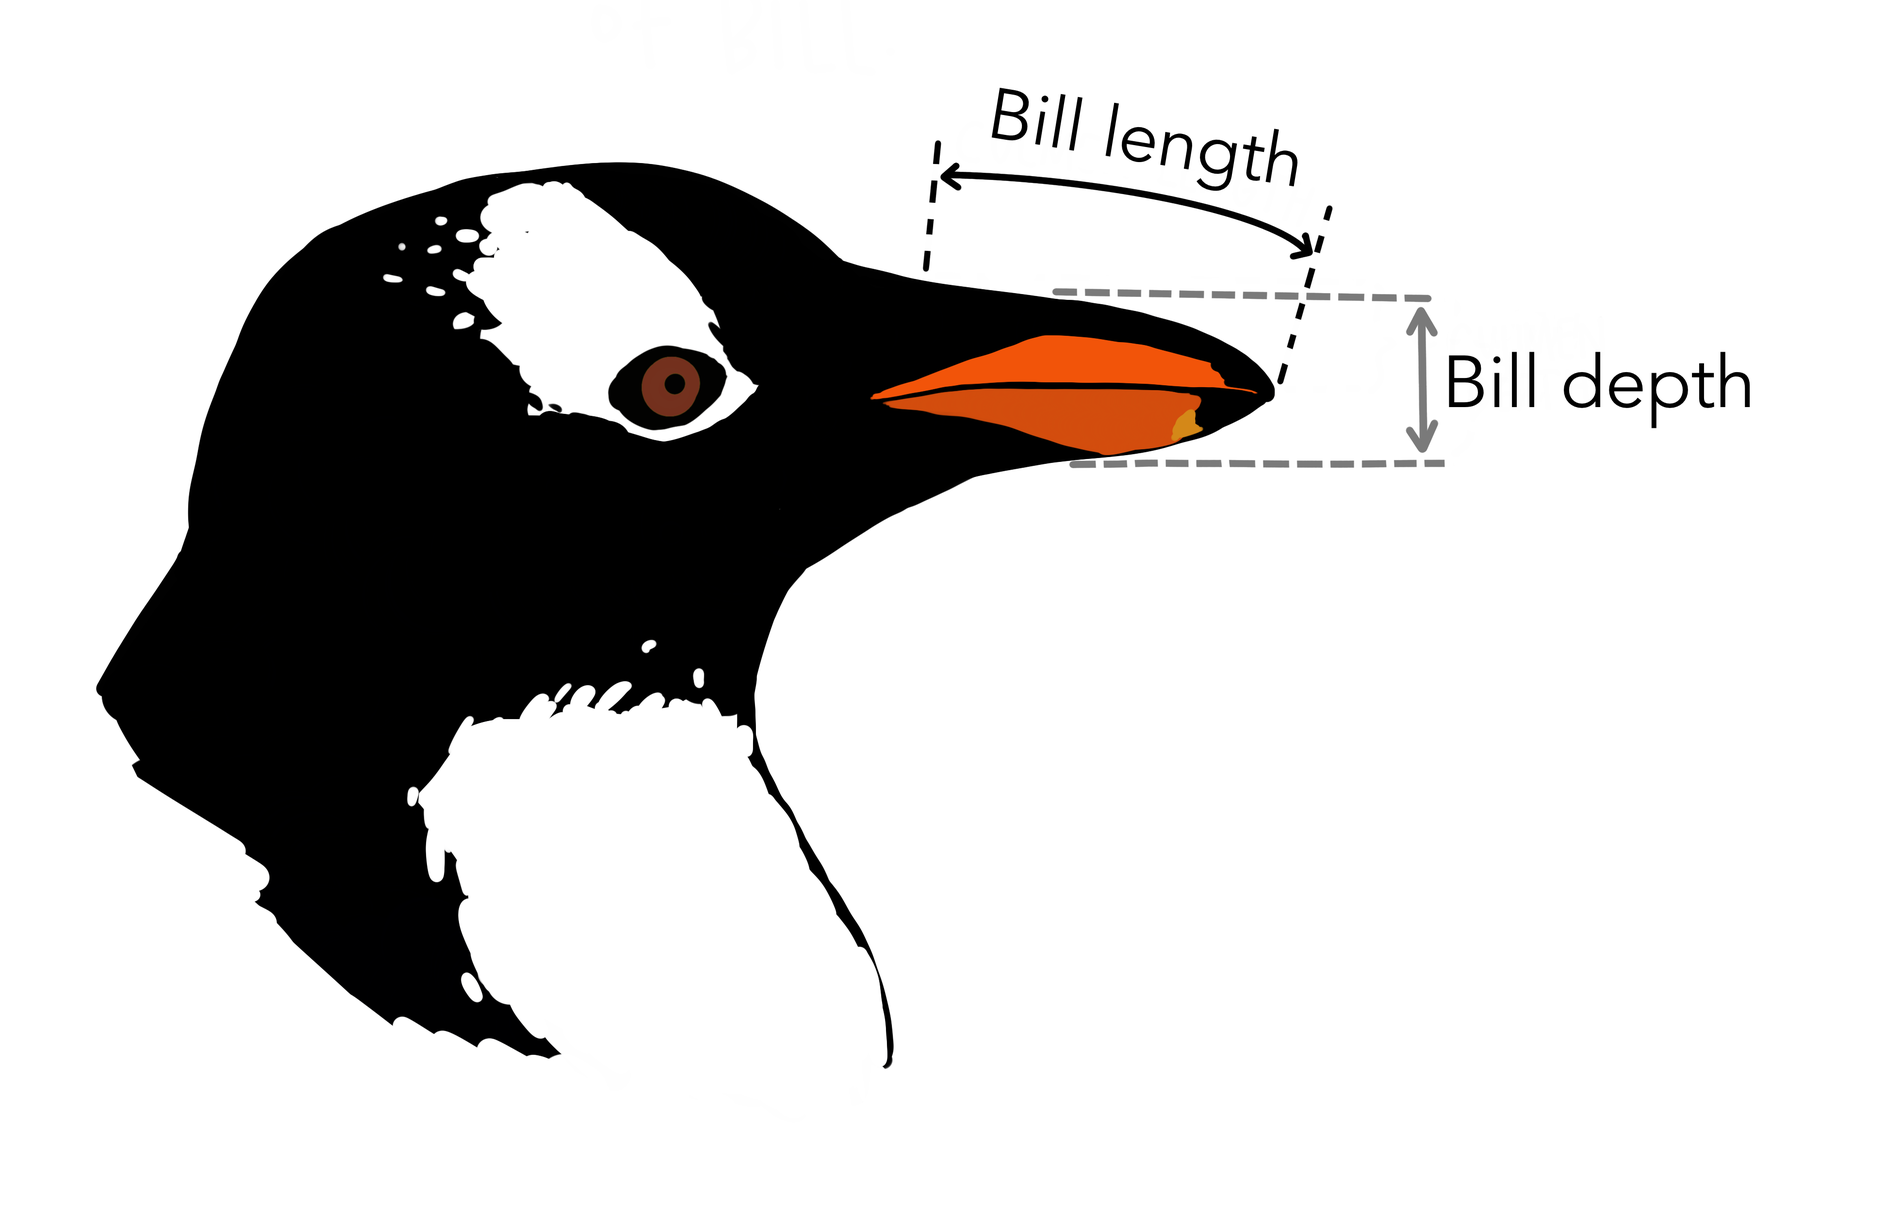
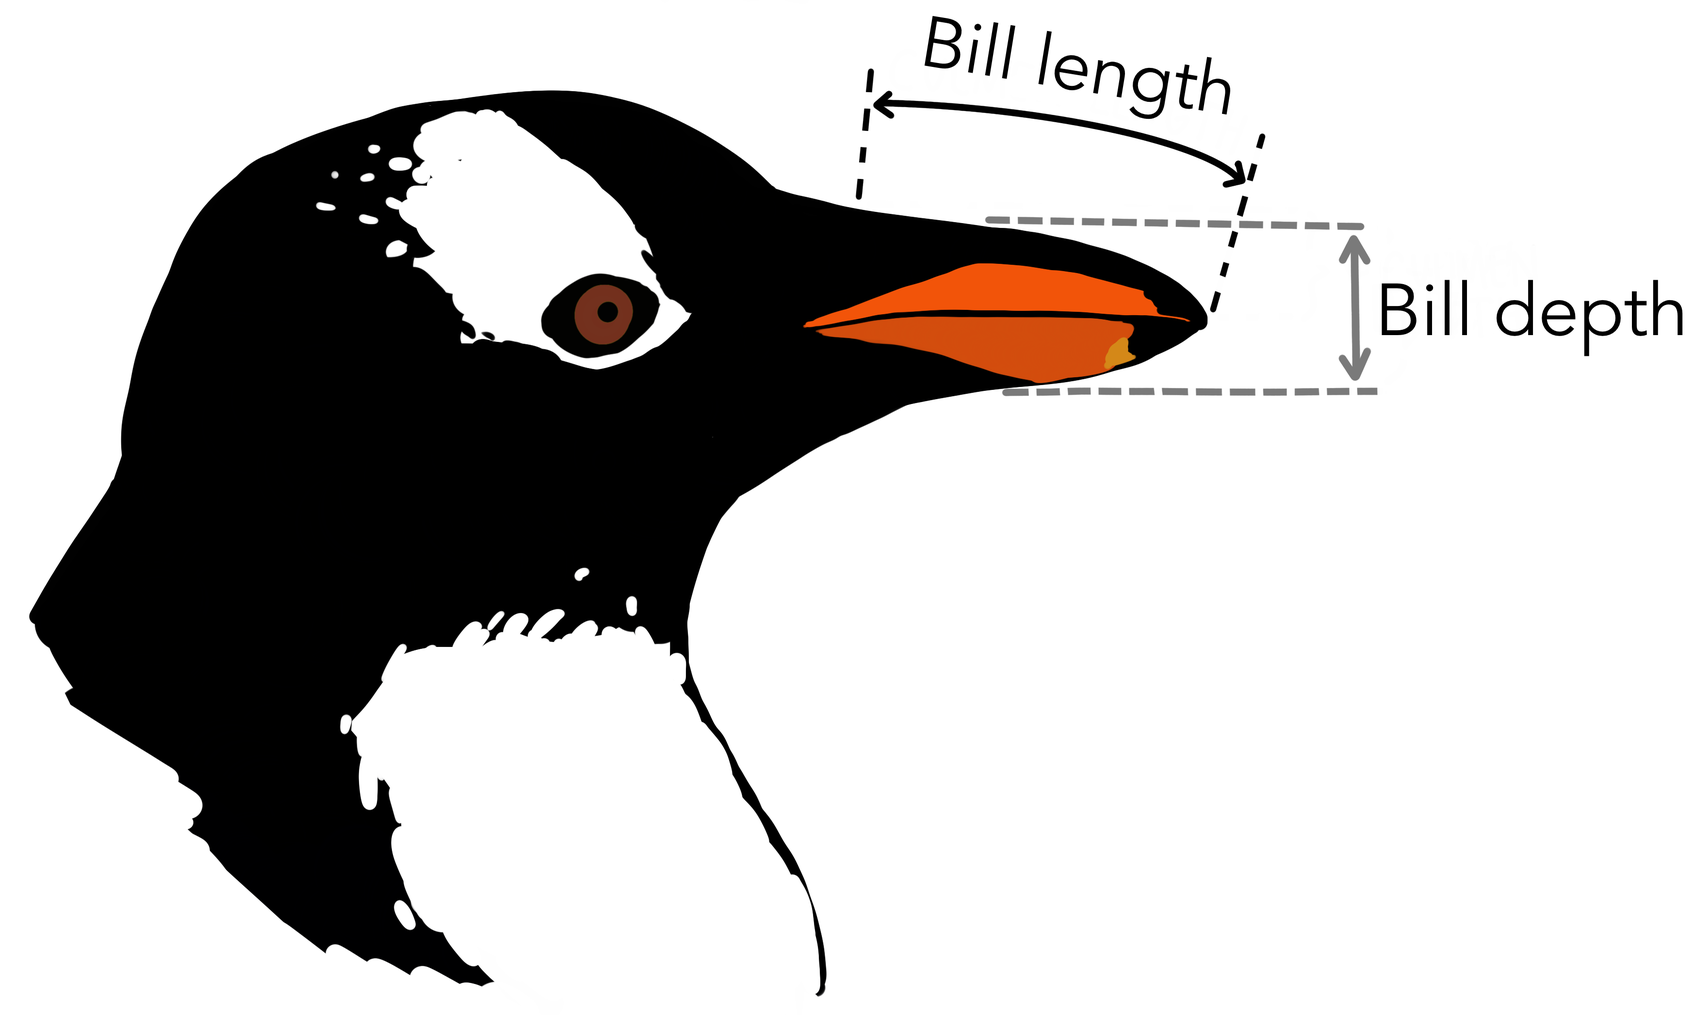
Поправил пенгвина

diff --git a/docs/404.html b/docs/404.html
@@ -1,34 +1,57 @@
-<!DOCTYPE html>
+<!doctype html>
 <html lang="en">
 <head>
-<meta http-equiv="Content-Type" content="text/html; charset=UTF-8">
-<meta charset="utf-8">
-<meta name="viewport" content="width=device-width, initial-scale=1, shrink-to-fit=no">
-<title>Page not found | Введение в Git</title>
-<meta name="author" content="Kirill Voronin">
-<meta name="description" content="The page you requested cannot be found (perhaps it was moved or renamed). You may want to try searching to find the page's new location, or use the table of contents to find the page you are...">
-<meta name="generator" content="bookdown 0.43 with bs4_book()">
-<meta property="og:title" content="Page not found | Введение в Git">
-<meta property="og:type" content="book">
-<meta property="og:url" content="https://yoursdearboy.github.io/git-101/404.html">
-<meta property="og:description" content="The page you requested cannot be found (perhaps it was moved or renamed). You may want to try searching to find the page's new location, or use the table of contents to find the page you are...">
-<meta name="twitter:card" content="summary">
-<meta name="twitter:title" content="Page not found | Введение в Git">
-<meta name="twitter:description" content="The page you requested cannot be found (perhaps it was moved or renamed). You may want to try searching to find the page's new location, or use the table of contents to find the page you are...">
-<!-- JS --><script src="https://cdnjs.cloudflare.com/ajax/libs/clipboard.js/2.0.6/clipboard.min.js" integrity="sha256-inc5kl9MA1hkeYUt+EC3BhlIgyp/2jDIyBLS6k3UxPI=" crossorigin="anonymous"></script><script src="https://cdnjs.cloudflare.com/ajax/libs/fuse.js/6.4.6/fuse.js" integrity="sha512-zv6Ywkjyktsohkbp9bb45V6tEMoWhzFzXis+LrMehmJZZSys19Yxf1dopHx7WzIKxr5tK2dVcYmaCk2uqdjF4A==" crossorigin="anonymous"></script><script src="https://kit.fontawesome.com/6ecbd6c532.js" crossorigin="anonymous"></script><script src="libs/jquery-3.6.0/jquery-3.6.0.min.js"></script><meta name="viewport" content="width=device-width, initial-scale=1, shrink-to-fit=no">
-<link href="libs/bootstrap-4.6.0/bootstrap.min.css" rel="stylesheet">
-<script src="libs/bootstrap-4.6.0/bootstrap.bundle.min.js"></script><script src="libs/bs3compat-0.9.0/transition.js"></script><script src="libs/bs3compat-0.9.0/tabs.js"></script><script src="libs/bs3compat-0.9.0/bs3compat.js"></script><link href="libs/bs4_book-1.0.0/bs4_book.css" rel="stylesheet">
-<script src="libs/bs4_book-1.0.0/bs4_book.js"></script><script src="https://cdnjs.cloudflare.com/ajax/libs/autocomplete.js/0.38.0/autocomplete.jquery.min.js" integrity="sha512-GU9ayf+66Xx2TmpxqJpliWbT5PiGYxpaG8rfnBEk1LL8l1KGkRShhngwdXK1UgqhAzWpZHSiYPc09/NwDQIGyg==" crossorigin="anonymous"></script><script src="https://cdnjs.cloudflare.com/ajax/libs/mark.js/8.11.1/mark.min.js" integrity="sha512-5CYOlHXGh6QpOFA/TeTylKLWfB3ftPsde7AnmhuitiTX4K5SqCLBeKro6sPS8ilsz1Q4NRx3v8Ko2IBiszzdww==" crossorigin="anonymous"></script><!-- CSS --><style type="text/css">
+  <meta charset="utf-8" />
+  <meta name="viewport" content="width=device-width, initial-scale=1, shrink-to-fit=no">
+
+  <title>Page not found | Введение в Git</title>
+
+    <meta name="author" content="Kirill Voronin" />
+  
+   <meta name="description" content="Руководство по Git для Института Биоинформатики." />
+   <meta name="generator" content="placeholder" />
+  <meta property="og:title" content="Page not found | Введение в Git" />
+  <meta property="og:type" content="book" />
+  <meta property="og:url" content="https://yoursdearboy.github.io/git-101" />
+  
+  <meta property="og:description" content="Руководство по Git для Института Биоинформатики." />
+
+  <meta name="twitter:card" content="summary" />
+  <meta name="twitter:title" content="Page not found | Введение в Git" />
+  
+  <meta name="twitter:description" content="Руководство по Git для Института Биоинформатики." />
+  
+  <!-- JS -->
+  <script src="https://cdnjs.cloudflare.com/ajax/libs/clipboard.js/2.0.6/clipboard.min.js" integrity="sha256-inc5kl9MA1hkeYUt+EC3BhlIgyp/2jDIyBLS6k3UxPI=" crossorigin="anonymous"></script>
+  <script src="https://cdnjs.cloudflare.com/ajax/libs/fuse.js/6.4.6/fuse.js" integrity="sha512-zv6Ywkjyktsohkbp9bb45V6tEMoWhzFzXis+LrMehmJZZSys19Yxf1dopHx7WzIKxr5tK2dVcYmaCk2uqdjF4A==" crossorigin="anonymous"></script>
+  <script src="https://kit.fontawesome.com/6ecbd6c532.js" crossorigin="anonymous"></script>
+    <script src="libs/jquery-3.6.0/jquery-3.6.0.min.js"></script>
+    <meta name="viewport" content="width=device-width, initial-scale=1, shrink-to-fit=no" />
+    <link href="libs/bootstrap-4.6.0/bootstrap.min.css" rel="stylesheet" />
+    <script src="libs/bootstrap-4.6.0/bootstrap.bundle.min.js"></script>
+    <script src="libs/bs3compat-0.9.0/transition.js"></script>
+    <script src="libs/bs3compat-0.9.0/tabs.js"></script>
+    <script src="libs/bs3compat-0.9.0/bs3compat.js"></script>
+    <link href="libs/bs4_book-1.0.0/bs4_book.css" rel="stylesheet" />
+    <script src="libs/bs4_book-1.0.0/bs4_book.js"></script>
+    <script src="https://cdnjs.cloudflare.com/ajax/libs/autocomplete.js/0.38.0/autocomplete.jquery.min.js" integrity="sha512-GU9ayf+66Xx2TmpxqJpliWbT5PiGYxpaG8rfnBEk1LL8l1KGkRShhngwdXK1UgqhAzWpZHSiYPc09/NwDQIGyg==" crossorigin="anonymous"></script>
+  <script src="https://cdnjs.cloudflare.com/ajax/libs/mark.js/8.11.1/mark.min.js" integrity="sha512-5CYOlHXGh6QpOFA/TeTylKLWfB3ftPsde7AnmhuitiTX4K5SqCLBeKro6sPS8ilsz1Q4NRx3v8Ko2IBiszzdww==" crossorigin="anonymous"></script>
+
+  <!-- CSS -->
+  <style type="text/css">
     
     div.hanging-indent{margin-left: 1.5em; text-indent: -1.5em;}
   </style>
-<link rel="stylesheet" href="style.css">
+      <link rel="stylesheet" href="style.css" />
+  
 </head>
+
 <body data-spy="scroll" data-target="#toc">
 
 <div class="container-fluid">
 <div class="row">
-  <header class="col-sm-12 col-lg-3 sidebar sidebar-book"><a class="sr-only sr-only-focusable" href="#content">Skip to main content</a>
+  <header class="col-sm-12 col-lg-3 sidebar sidebar-book">
+    <a class="sr-only sr-only-focusable" href="#content">Skip to main content</a>
 
     <div class="d-flex align-items-start justify-content-between">
       <h1>
@@ -40,50 +63,47 @@
     <div id="main-nav" class="collapse-lg">
       <form role="search">
         <input id="search" class="form-control" type="search" placeholder="Search" aria-label="Search">
-</form>
+      </form>
 
-      <nav aria-label="Table of contents"><h2>Table of contents</h2>
-        <ul class="book-toc list-unstyled">
-<li><a class="" href="index.html"><span class="header-section-number">1</span> Введение в Git</a></li>
-<li class="book-part">Введение</li>
-<li><a class="" href="about.html"><span class="header-section-number">2</span> Что такое Git</a></li>
-<li><a class="" href="install.html"><span class="header-section-number">3</span> Установка</a></li>
-<li><a class="" href="setup.html"><span class="header-section-number">4</span> Настройка</a></li>
-<li class="book-part">Основы</li>
-<li><a class="" href="git-init.html"><span class="header-section-number">5</span> Создание репозитория</a></li>
-<li><a class="" href="git-commit.html"><span class="header-section-number">6</span> Отслеживание изменений</a></li>
-<li><a class="" href="git-commit2.html"><span class="header-section-number">7</span> Рабочий процесс</a></li>
-<li><a class="" href="git-log.html"><span class="header-section-number">8</span> Просмотр истории (log, diff)</a></li>
-<li class="book-part">GitHub</li>
-<li><a class="" href="github.html"><span class="header-section-number">9</span> GitHub</a></li>
-<li><a class="" href="git-clone.html"><span class="header-section-number">10</span> Clone</a></li>
-<li class="book-part">Дополнительные материалы</li>
-<li><a class="" href="faq.html"><span class="header-section-number">11</span> Best practices</a></li>
-<li><a class="" href="references.html"><span class="header-section-number">12</span> Ссылки</a></li>
-</ul>
+      <nav aria-label="Table of contents">
+        <h2>Table of contents</h2>
+        <div id="book-toc"></div>
 
         <div class="book-extra">
-          <p><a id="book-repo" href="https://github.com/yoursdearboy/git-101">View book source <i class="fab fa-github"></i></a></p>
+          <p><a id="book-repo" href="#">View book source <i class="fab fa-github"></i></a></li></p>
         </div>
       </nav>
-</div>
-  </header><main class="col-sm-12 col-md-9 col-lg-7" id="content"><div id="page-not-found" class="section level1">
-<h1>Page not found<a class="anchor" aria-label="anchor" href="#page-not-found"><i class="fas fa-link"></i></a>
-</h1>
+    </div>
+  </header>
+
+  <main class="col-sm-12 col-md-9 col-lg-7" id="content">
+<div id="page-not-found" class="section level1">
+<h1>Page not found</h1>
 <p>The page you requested cannot be found (perhaps it was moved or renamed).</p>
 <p>You may want to try searching to find the page's new location, or use
 the table of contents to find the page you are looking for.</p>
 </div>
-  <div class="chapter-nav">
-<div class="empty"></div>
-<div class="empty"></div>
-</div></main><div class="col-md-3 col-lg-2 d-none d-md-block sidebar sidebar-chapter">
-    </div>
+  </main>
+
+  <div class="col-md-3 col-lg-2 d-none d-md-block sidebar sidebar-chapter">
+    <nav id="toc" data-toggle="toc" aria-label="On this page">
+      <h2>On this page</h2>
+      <div id="book-on-this-page"></div>
+
+      <div class="book-extra">
+        <ul class="list-unstyled">
+          <li><a id="book-source" href="#">View source <i class="fab fa-github"></i></a></li>
+          <li><a id="book-edit" href="#">Edit this page <i class="fab fa-github"></i></a></li>
+        </ul>
+      </div>
+    </nav>
+  </div>
 
 </div>
 </div> <!-- .container -->
 
-<footer class="bg-primary text-light mt-5"><div class="container"><div class="row">
+<footer class="bg-primary text-light mt-5">
+  <div class="container"><div class="row">
 
   <div class="col-12 col-md-6 mt-3">
     <p>"<strong>Введение в Git</strong>" was written by Kirill Voronin. It was last built on 2025-08-01.</p>
@@ -95,5 +115,8 @@ the table of contents to find the page you are looking for.</p>
 
 </div></div>
 </footer>
+
+
 </body>
+
 </html>

diff --git a/docs/git-commit2.html b/docs/git-commit2.html
@@ -43,24 +43,7 @@
 </form>
 
       <nav aria-label="Table of contents"><h2>Table of contents</h2>
-        <ul class="book-toc list-unstyled">
-<li><a class="" href="index.html"><span class="header-section-number">1</span> Введение в Git</a></li>
-<li class="book-part">Введение</li>
-<li><a class="" href="about.html"><span class="header-section-number">2</span> Что такое Git</a></li>
-<li><a class="" href="install.html"><span class="header-section-number">3</span> Установка</a></li>
-<li><a class="" href="setup.html"><span class="header-section-number">4</span> Настройка</a></li>
-<li class="book-part">Основы</li>
-<li><a class="" href="git-init.html"><span class="header-section-number">5</span> Создание репозитория</a></li>
-<li><a class="" href="git-commit.html"><span class="header-section-number">6</span> Отслеживание изменений</a></li>
-<li><a class="active" href="git-commit2.html"><span class="header-section-number">7</span> Рабочий процесс</a></li>
-<li><a class="" href="git-log.html"><span class="header-section-number">8</span> Просмотр истории (log, diff)</a></li>
-<li class="book-part">GitHub</li>
-<li><a class="" href="github.html"><span class="header-section-number">9</span> GitHub</a></li>
-<li><a class="" href="git-clone.html"><span class="header-section-number">10</span> Clone</a></li>
-<li class="book-part">Дополнительные материалы</li>
-<li><a class="" href="faq.html"><span class="header-section-number">11</span> Best practices</a></li>
-<li><a class="" href="references.html"><span class="header-section-number">12</span> Ссылки</a></li>
-</ul>
+        <ul class="book-toc list-unstyled"><li><a class="" href="index.html"><span class="header-section-number">Глава 7</span> Рабочий процесс</a></li></ul>
 
         <div class="book-extra">
           <p><a id="book-repo" href="https://github.com/yoursdearboy/git-101">View book source <i class="fab fa-github"></i></a></p>
@@ -77,8 +60,8 @@
 <div class="inline-figure"><img src="img/02-02-06-workflow.png" width="350"></div>
 <p>Анализ данных хорошо укладывается в этот процесс, потому что легко разделяется на шаги.
 Шаги превращаются в коммиты, которые можно проконтролировать, вернуться к ним или поделиться с другими участниками.</p>
-<div class="inline-figure"><img src="img/penguins.png" width="400"></div>
 <p>Попробуем на практике — проанализируем длину клюва пингвина.</p>
+<div class="inline-figure"><img src="img/penguins.png" width="400"></div>
 <p>Скачайте файл с данными <a href="https://raw.githubusercontent.com/yoursdearboy/git-101/tutorial/penguins.csv">penguins.csv</a> и положите в папку проекта.
 Для этого откройте папку в файловом менеджере или воспользуйтесь меню на панели <span class="figtext">Files</span> в RStudio <span class="figtext">More → Show Folder in New Window</span></p>
 <div class="inline-figure"><img src="img/02-03-01-show-folder.png" width="400"></div>
@@ -86,7 +69,7 @@
 <p>Теперь создадим скрипт для анализа. Для этого на панели <span class="figtext">Files</span> выберите в меню <span class="figtext">New File → R Script</span> и введите название файла <code>penguins.R</code></p>
 <div class="inline-figure"><img src="img/02-03-02-new-file.png" width="400"></div>
 <p>Введите следующий код и сохраните файл:</p>
-<div class="sourceCode" id="cb7"><pre class="downlit sourceCode r">
+<div class="sourceCode" id="cb1"><pre class="downlit sourceCode r">
 <code class="sourceCode R"><span><span class="va">data</span> <span class="op">&lt;-</span> <span class="fu"><a href="https://rdrr.io/r/utils/read.table.html">read.csv</a></span><span class="op">(</span><span class="st">"penguins.csv"</span><span class="op">)</span></span>
 <span><span class="va">data</span><span class="op">$</span><span class="va">bill_length_mm</span></span></code></pre></div>
 <p>Запустите код и убедитесь, что он работает.
@@ -95,7 +78,7 @@
 <div class="inline-figure"><img src="img/02-03-03-git-pane.png" width="400"></div>
 <p>После создания коммита убедитесь, что список измененных файлов на панели <span class="figtext">Git</span> пуст.</p>
 <p>Начиная работать с новыми данными, хорошая идея первым делом исследовать их при помощи графика. Построим гистограмму (несколько вариантов с разной шириной столбца). Перепишите скрипт следующим образом:</p>
-<div class="sourceCode" id="cb8"><pre class="downlit sourceCode r">
+<div class="sourceCode" id="cb2"><pre class="downlit sourceCode r">
 <code class="sourceCode R"><span><span class="va">data</span> <span class="op">&lt;-</span> <span class="fu"><a href="https://rdrr.io/r/utils/read.table.html">read.csv</a></span><span class="op">(</span><span class="st">"penguins.csv"</span><span class="op">)</span></span>
 <span><span class="va">x</span> <span class="op">&lt;-</span> <span class="va">data</span><span class="op">$</span><span class="va">bill_length_mm</span></span>
 <span></span>
@@ -106,7 +89,7 @@
 <em>Не забудьте убедиться, что измененная версия скрипта работает.</em></p>
 <p>Ширина столбца 2 подходит лучше всего. Такую гистограмму можно и опубликовать. Для этого сохраним изображение в файл.
 Перепишите скрипт следующим образом:</p>
-<div class="sourceCode" id="cb9"><pre class="downlit sourceCode r">
+<div class="sourceCode" id="cb3"><pre class="downlit sourceCode r">
 <code class="sourceCode R"><span><span class="va">data</span> <span class="op">&lt;-</span> <span class="fu"><a href="https://rdrr.io/r/utils/read.table.html">read.csv</a></span><span class="op">(</span><span class="st">"penguins.csv"</span><span class="op">)</span></span>
 <span><span class="va">x</span> <span class="op">&lt;-</span> <span class="va">data</span><span class="op">$</span><span class="va">bill_length_mm</span></span>
 <span></span>
@@ -150,16 +133,15 @@
 
 </div>
   <div class="chapter-nav">
-<div class="prev"><a href="git-commit.html"><span class="header-section-number">6</span> Отслеживание изменений</a></div>
-<div class="next"><a href="git-log.html"><span class="header-section-number">8</span> Просмотр истории (log, diff)</a></div>
+<div class="empty"></div>
+<div class="empty"></div>
 </div></main><div class="col-md-3 col-lg-2 d-none d-md-block sidebar sidebar-chapter">
     <nav id="toc" data-toggle="toc" aria-label="On this page"><h2>On this page</h2>
-      <ul class="nav navbar-nav"><li><a class="nav-link" href="#git-commit2"><span class="header-section-number">7</span> Рабочий процесс</a></li></ul>
+      <div id="book-on-this-page"></div>
 
       <div class="book-extra">
         <ul class="list-unstyled">
-<li><a id="book-source" href="https://github.com/yoursdearboy/git-101/blob/master/02-03-practice.Rmd">View source <i class="fab fa-github"></i></a></li>
-          <li><a id="book-edit" href="https://github.com/yoursdearboy/git-101/edit/master/02-03-practice.Rmd">Edit this page <i class="fab fa-github"></i></a></li>
+          
         </ul>
 </div>
     </nav>

diff --git a/docs/02-03-practice.md b/docs/02-03-practice.md
@@ -10,9 +10,9 @@
 Анализ данных хорошо укладывается в этот процесс, потому что легко разделяется на шаги.
 Шаги превращаются в коммиты, которые можно проконтролировать, вернуться к ним или поделиться с другими участниками.
 
-![](./img/penguins.png){width=400px}
-
 Попробуем на практике --- проанализируем длину клюва пингвина.
+
+![](./img/penguins.png){width=400px}
 
 Скачайте файл с данными [penguins.csv](https://raw.githubusercontent.com/yoursdearboy/git-101/tutorial/penguins.csv) и положите в папку проекта.
 Для этого откройте папку в файловом менеджере или воспользуйтесь меню на панели [Files]{.figtext} в RStudio [More → Show Folder in New Window]{.figtext}
